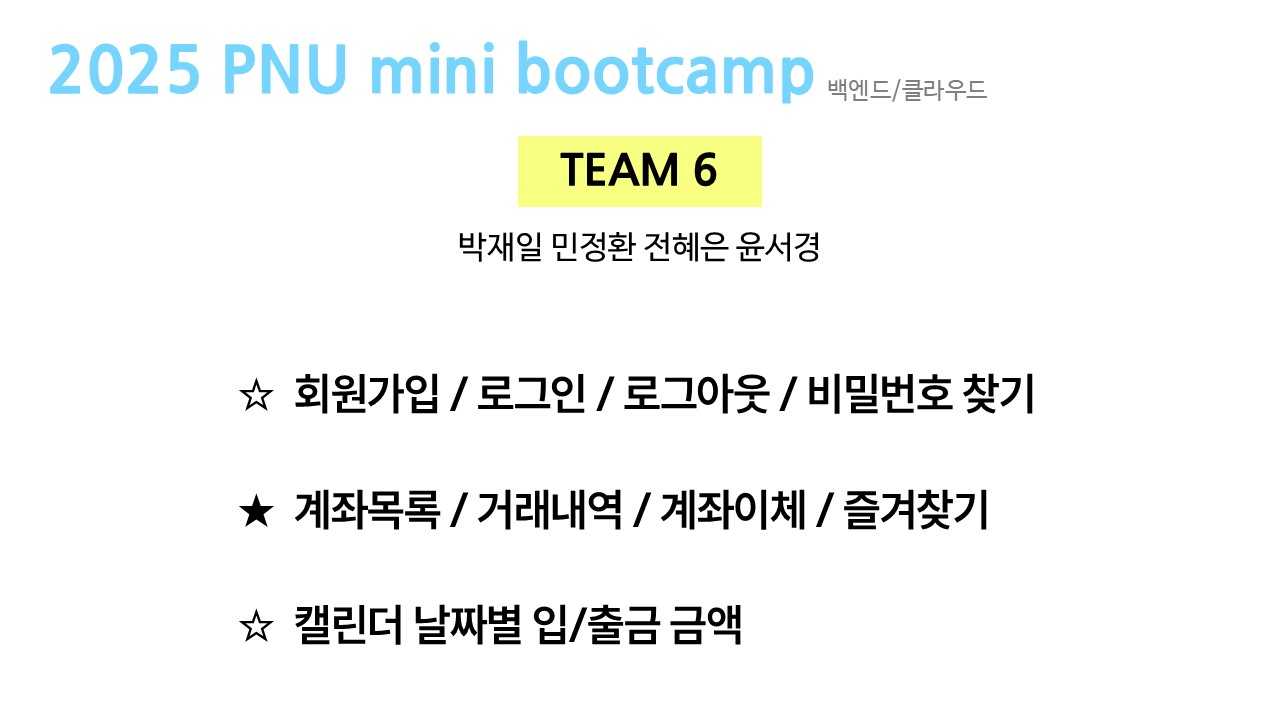
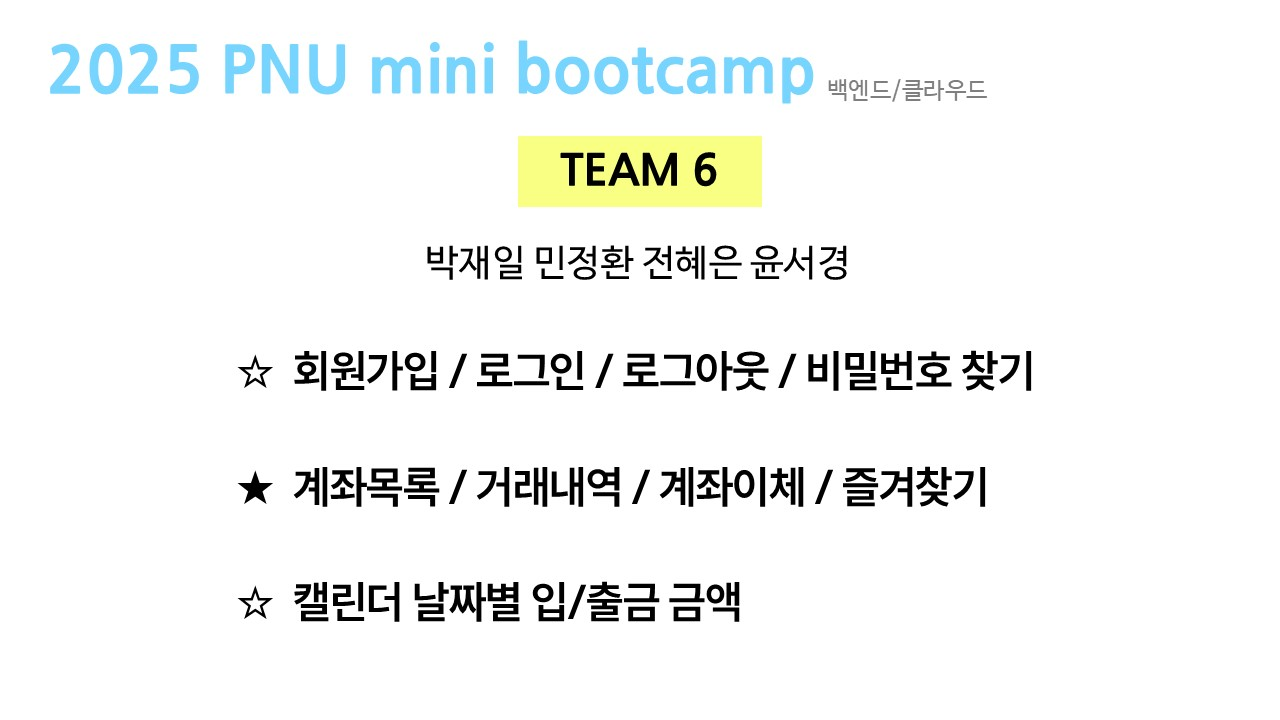
index css complete

diff --git a/frontend/home.css b/frontend/home.css
@@ -9,26 +9,28 @@ body {
 
 h1 {
   text-align: center;
-  margin-top: 40px;
-  margin-bottom: 30px;
-  font-size: 50px;
+  margin-top: 25px;
+  margin-bottom: 20px;
+  font-size: 32px;
 }
   
 hr {
-  border: 3px solid #FFFFFF;
+  border: 1.5px solid #FFFFFF;
   margin-top: 20px;
   width: 100%;
 }
 
 .image {
   float: left;
-  margin-top: 50px;
-  margin-left: 100px;
+  margin-top: 40px;
+  margin-left: 120px;
+  width: 55%;
+  min-width: 420px;
 }
 
 .image img {
-  width: 950px; /* 이미지 크기 설정 */
-  height: 470px;
+  width: 100%; /* 이미지 크기 설정 */
+  height: 370px;
   border-radius: 5px;
 }
 
@@ -96,31 +98,35 @@ th {
   float: left;
   background-color: #F9FF82;
   border-radius: 5px;
-  margin-top: 50px;
-  margin-left: 80px;
+  margin-top: 40px;
+  margin-left: 40px;
+  margin-bottom: 6px;
   border: none;
-  padding: 10px 50px;
+  padding: 10px 20px;
 }
 
 .buttons{
   display: block;
   background-color: #76D4FF;
   border: none;
-  margin-top: 15px;
+  border-radius: 5px;
+  margin-top: 20px;
   margin-bottom: 15px;
-  padding: 15px 80px;
-  font-size: 35px;
+  padding: 12px 80px;
+  font-size: 25px;
   text-align: center;
   width: 100%;
   cursor: pointer;
   font-weight: bold;
+  font-size: 15px;
 }
 
 #button2 {
-  font-size: 40px;
-  padding: 70px 120px;
+  font-size: 22px;
+  padding: 66px 86px;
   cursor: pointer;
   font-weight: bold;
+  margin-top: 40px;
 }
 
 #button3 {
@@ -139,5 +145,7 @@ th {
 footer {
   clear: both;
   text-align: center;
-  margin-top: 53px;
+  margin-top: 0px;
+  font-size: 10px;
+  padding-top: 10px;
 }
